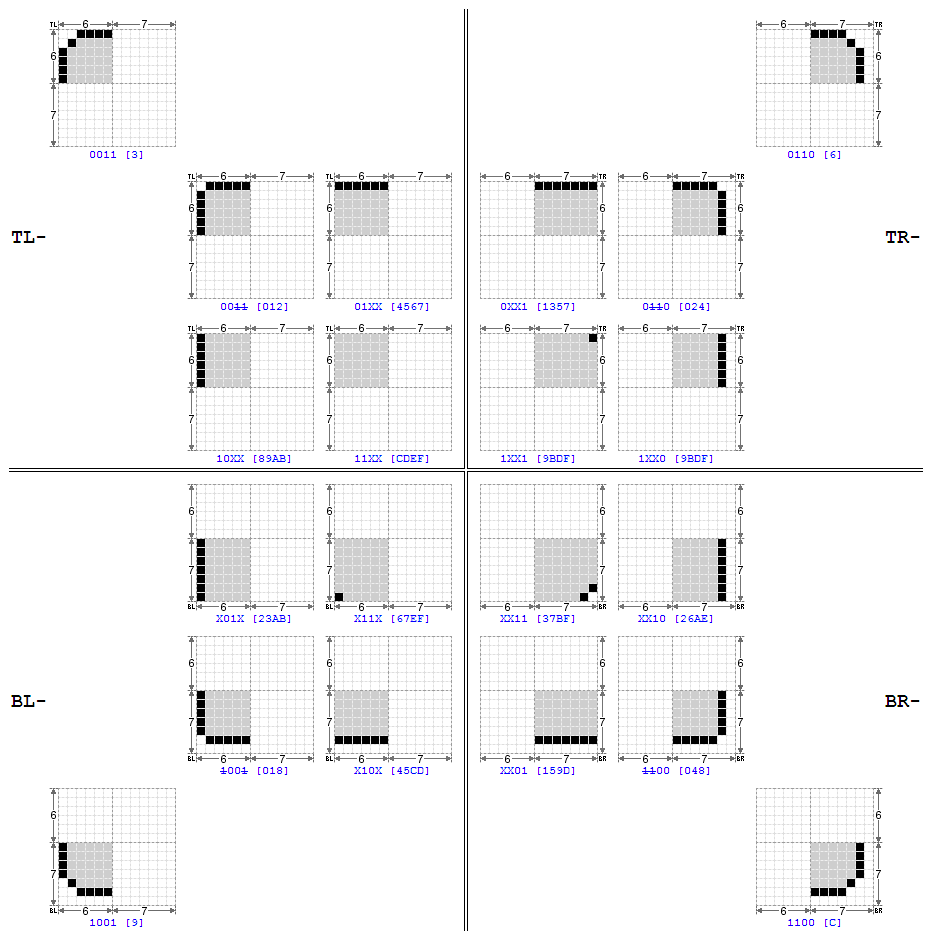
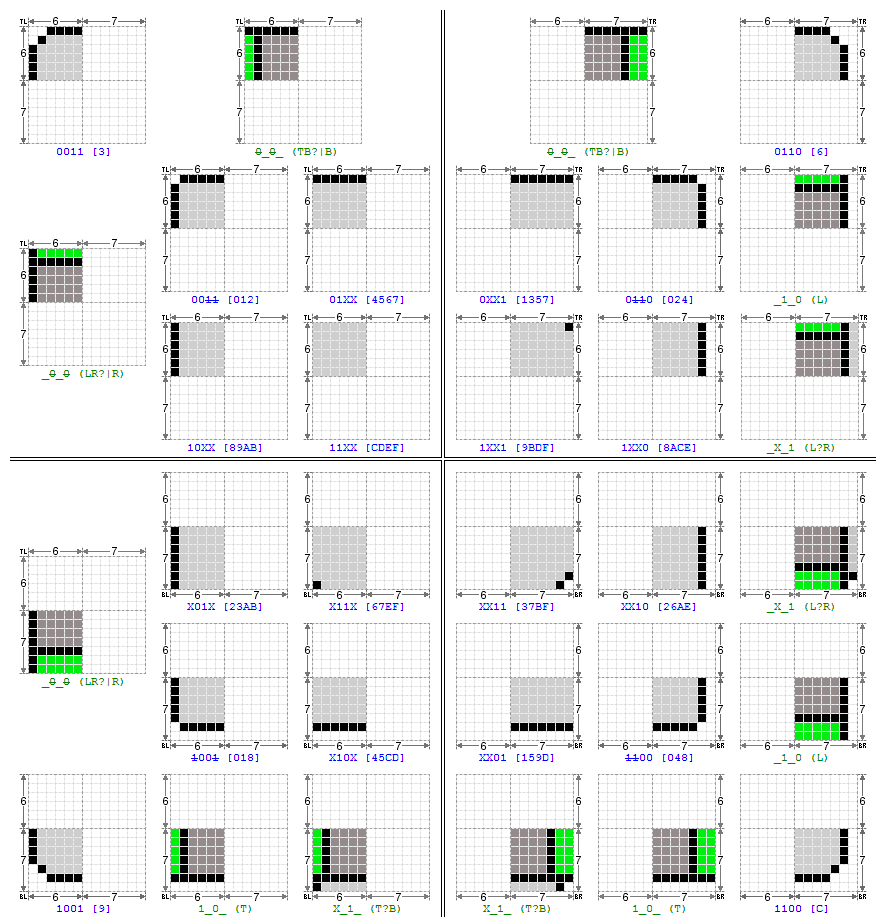
add junction priv, simplify layout in Primitives-table.htm

diff --git a/doc/Drawing-cells-corner-by-corner/Primitives-table.htm b/doc/Drawing-cells-corner-by-corner/Primitives-table.htm
@@ -15,20 +15,19 @@
         }
         td {
             margin:0px;
-            border:px solid black;
+            border:0px solid green;
             padding:0px;
-            text-align:center; vertical-align:middle; 
+            text-align:center; vertical-align:middle;
             font-family:monospace; font-size:11px; font-weight: bold;
             color:blue;
         }
         
         td * td {
-            margin:0px;
-            border:0px solid green;
+            border:0px solid black;
             padding:0px;
         }
 
-        .junction { color:green; visibility:hidden; }
+        .junction { color:green; visibility:xhidden; }
         
         .TL { text-align:right; vertical-align:bottom;  padding-bottom:1px; border-bottom:1px solid black; padding-right: 1px; border-right: 1px solid black; }
         .BL { text-align:right; vertical-align:top;     padding-right: 1px; border-right: 1px solid black; padding-top:   1px; border-top:   1px solid black; }
@@ -36,7 +35,21 @@
         .TR { text-align:left; vertical-align:bottom;   padding-left:  1px; border-left:  1px solid black; padding-bottom:1px; border-bottom:1px solid black; }
 
         .quadrant-label * { font-size: 20px; font-weight: bold; color:black; }
-        .quadrant-label *:after { content:attr(id)"-"; }
+
+        td * td img {
+            display:block;
+            border:0px solid black;
+            padding:5px;
+            padding-bottom:0px;
+        }
+        td.TL * td img { padding-right:8px; }
+        td.TR * td img { padding-left: 8px; }
+        td.BL * td img { padding-right:8px; padding-top:8px; }
+        td.BR * td img { padding-left: 8px; padding-top:8px; }
+
+        td * td[colspan="2"] img {
+            margin-left:74px;
+        }
     </style>
 
     <table>
@@ -45,36 +58,36 @@
             <tr>
                 <td class="quadrant-label" rowspan="3"><div id="TL"></div></td>
                 <td>
-                    <img align="top" src="gfx/TL-0011.png?raw=true" title="connected to the right and bottom but NOT to top and left">
-                    <br>0011 [3]
+                    <img S="[3]" src="gfx/TL-0011.png?raw=true" title="connected to the right and bottom but NOT to top and left">
+                    0011 [3]
                 </td>
                 <td class="junction" colspan="2">
-                    <img align="top" src="gfx/TL-T-or-B-or-TB.png?raw=true" title="junction: base connected to the top or bottom or both (left and right implicit)">
-                    <br>[TB?|B]
+                    <img J="TB?|B" src="gfx/TL-T-or-B-or-TB.png?raw=true" title="junction: base connected to the top or bottom or both (left and right implicit)">
+                    <strike>0</strike>_<strike>0</strike>_ (TB?|B)
                 </td>
             </tr>
             <tr>
                 <td class="junction" rowspan="2">
-                    <img align="top" src="gfx/TL-L-or-R-or-LR.png?raw=true" title="junction: base connected to the left or right or both (top and bottom implicit)">
-                    <br>[LR?|R]
+                    <img J="LR?|R" src="gfx/TL-L-or-R-or-LR.png?raw=true" title="junction: base connected to the left or right or both (top and bottom implicit)">
+                    _<strike>0</strike>_<strike>0</strike> (LR?|R)
                 </td>
                 <td>
-                    <img align="top" src="gfx/TL-0000-or-0001-or-0010.png?raw=true" title="NOT connected to the left and NOT to the top and NOT to *both*, right and bottom">
-                    <br>00<strike>11</strike> [012]
+                    <img S="[012]" src="gfx/TL-0000-or-0001-or-0010.png?raw=true" title="NOT connected to the left and NOT to the top and NOT to *both*, right and bottom">
+                    00<strike>11</strike> [012]
                 </td>
                 <td>
-                    <img align="top" src="gfx/TL-01XX.png?raw=true" title="connected to the left but NOT to the top">
-                    <br>01XX [4567]
+                    <img S="[4567]" src="gfx/TL-01XX.png?raw=true" title="connected to the left but NOT to the top">
+                    01XX [4567]
                 </td>
             </tr>
             <tr>
                 <td>
-                    <img align="top" src="gfx/TL-10XX.png?raw=true" title="connected to the top but NOT to the left">
-                    <br>10XX [89AB]
+                    <img S="[89AB]" src="gfx/TL-10XX.png?raw=true" title="connected to the top but NOT to the left">
+                    10XX [89AB]
                 </td>
                 <td>
-                    <img align="top" src="gfx/TL-11XX.png?raw=true" title="connected to the top and left">
-                    <br>11XX [CDEF]
+                    <img S="[CDEF]" src="gfx/TL-11XX.png?raw=true" title="connected to the top and left">
+                    11XX [CDEF]
                   </td>
             </tr>
         </table></td>
@@ -82,41 +95,41 @@
         <td class="TR"><table>
             <tr>
                 <td class="junction" colspan="2">
-                    <img align="top" src="gfx/TR-T-or-B-or-TB.png?raw=true" title="junction: base connected to the top or bottom or both (left and right implicit)">
-                    <br>[TB?|B]
+                    <img J="(TB?|B)" src="gfx/TR-T-or-B-or-TB.png?raw=true" title="junction: base connected to the top or bottom or both (left and right implicit)">
+                    <strike>0</strike>_<strike>0</strike>_ (TB?|B)
                 </td>
                 <td>
-                    <img align="top" src="gfx/TR-0110.png?raw=true" title="connected to the left and bottom but NOT to top and right">
-                    <br>0110 [6]
+                    <img S="[6]" src="gfx/TR-0110.png?raw=true" title="connected to the left and bottom but NOT to top and right">
+                    0110 [6]
                 </td>
                 <td class="quadrant-label" rowspan="3"><div id="TR"></div></td>
             </tr>
             <tr>
                 <td>
-                    <img align="top" src="gfx/TR-0XX1.png?raw=true" title="connected to the right but NOT to the top">
-                    <br>0XX1 [1357]
+                    <img S="[1357]" src="gfx/TR-0XX1.png?raw=true" title="connected to the right but NOT to the top">
+                    0XX1 [1357]
                 </td>
                 <td>
-                    <img align="top" src="gfx/TR-0000-or-0010-or-0100.png?raw=true" title="NOT connected to the top and NOT to the right and NOT to *both*, left and bottom">
-                    <br>0<strike>11</strike>0 [024]
+                    <img S="[024]" src="gfx/TR-0000-or-0010-or-0100.png?raw=true" title="NOT connected to the top and NOT to the right and NOT to *both*, left and bottom">
+                    0<strike>11</strike>0 [024]
                 </td>
                 <td class="junction">
-                    <img align="top" src="gfx/TR-L.png?raw=true" title="junction: base connected to the left but NOT to the right (top and bottom implicit)">
-                    <br>[L]
+                    <img J="(L)" src="gfx/TR-L.png?raw=true" title="junction: base connected to the left but NOT to the right (top and bottom implicit)">
+                    _1_0 (L)
                 </td>
             </tr>
             <tr>
                 <td>
-                    <img align="top" src="gfx/TR-1XX1.png?raw=true" title="connected to the top and right">
-                    <br>1XX1 [9BDF]
+                    <img S="[9BDF]" src="gfx/TR-1XX1.png?raw=true" title="connected to the top and right">
+                    1XX1 [9BDF]
                 </td>
                 <td>
-                    <img align="top" src="gfx/TR-1XX0.png?raw=true" title="connected to the top but NOT to the right">
-                    <br>1XX0 [9BDF]
+                    <img S="[8ACE]" src="gfx/TR-1XX0.png?raw=true" title="connected to the top but NOT to the right">
+                    1XX0 [8ACE]
                 </td>
                 <td class="junction">
-                    <img align="top" src="gfx/TR-R-or-LR.png?raw=true" title="junction: base connected to the right and maybe to the left (top and bottom implicit)">
-                    <br>[L?R]
+                    <img J="(L?R)" src="gfx/TR-R-or-LR.png?raw=true" title="junction: base connected to the right and maybe to the left (top and bottom implicit)">
+                    _X_1 (L?R)
                 </td>
             </tr>
         </table></td>
@@ -128,40 +141,40 @@
             <tr>
                 <td class="quadrant-label" rowspan="3"><div id="BL"></div></td>
                 <td class="junction" rowspan="2">
-                    <img align="top" src="gfx/BL-L-or-R-or-LR.png?raw=true" title="junction: base connected to the left or right or both (top and bottom implicit)">
-                    <br>[LR?|R]
+                    <img J="(LR?|R)" src="gfx/BL-L-or-R-or-LR.png?raw=true" title="junction: base connected to the left or right or both (top and bottom implicit)">
+                    _<strike>0</strike>_<strike>0</strike> (LR?|R)
                 </td>
                 <td>
-                    <img align="top" src="gfx/BL-X01X.png?raw=true" title="connected to the bottom but NOT to the left">
-                    <br>X01X [23AB]
+                    <img S="[23AB]" src="gfx/BL-X01X.png?raw=true" title="connected to the bottom but NOT to the left">
+                    X01X [23AB]
                 </td>
                 <td>
-                    <img align="top" src="gfx/BL-X11X.png?raw=true" title="connected to the left and bottom">
-                    <br>X11X [67EF]
+                    <img S="[67EF]" src="gfx/BL-X11X.png?raw=true" title="connected to the left and bottom">
+                    X11X [67EF]
                 </td>
             </tr>
             <tr>
                 <td>
-                    <img align="top" src="gfx/BL-0000-or-0001-or-1000.png?raw=true" title="NOT connected to the left and NOT to the bottom and NOT to *both*, right and top">
-                    <br><strike>1</strike>00<strike>1</strike> [018]
+                    <img S="[018]" src="gfx/BL-0000-or-0001-or-1000.png?raw=true" title="NOT connected to the left and NOT to the bottom and NOT to *both*, right and top">
+                    <strike>1</strike>00<strike>1</strike> [018]
                 </td>
                 <td>
-                    <img align="top" src="gfx/BL-X10X.png?raw=true" title="connected to the left but NOT to the bottom">
-                    <br>X10X [45CD]
+                    <img S="[45CD]" src="gfx/BL-X10X.png?raw=true" title="connected to the left but NOT to the bottom">
+                    X10X [45CD]
                 </td>
             </tr>
             <tr>
                 <td>
-                    <img align="top" src="gfx/BL-1001.png?raw=true" title="connected to the top and to the right but NOT to left and bottom">
-                    <br>1001 [9]
+                    <img S="[9]" src="gfx/BL-1001.png?raw=true" title="connected to the top and to the right but NOT to left and bottom">
+                    1001 [9]
                 </td>
                 <td class="junction">
-                    <img align="top" src="gfx/BL-T.png?raw=true" title="junction: base connected to the top but NOT to the bottom (left and right implicit)">
-                    <br>[T]
+                    <img J="(T)" src="gfx/BL-T.png?raw=true" title="junction: base connected to the top but NOT to the bottom (left and right implicit)">
+                    1_0_ (T)
                 </td>
                 <td class="junction">
-                    <img align="top" src="gfx/BL-B-or-TB.png?raw=true" title="junction: base connected to the bottom and maybe to the top (left and right implicit)">
-                    <br>[T?B]
+                    <img J="(T?B)" src="gfx/BL-B-or-TB.png?raw=true" title="junction: base connected to the bottom and maybe to the top (left and right implicit)">
+                    X_1_ (T?B)
                 </td>
             </tr>
         </table></td>
@@ -170,50 +183,51 @@
         <td class="BR"><table>
             <tr>
                 <td>
-                    <img align="top" src="gfx/BR-XX11.png?raw=true" title="connected to the bottom and right">
-                    <br>XX11 [37BF]
+                    <img S="[37BF]" src="gfx/BR-XX11.png?raw=true" title="connected to the bottom and right">
+                    XX11 [37BF]
                 </td>
                 <td>
-                    <img align="top" src="gfx/BR-XX10.png?raw=true" title="connected to the bottom but NOT to the right">
-                    <br>XX10 [26AE]
+                    <img S="[26AE]" src="gfx/BR-XX10.png?raw=true" title="connected to the bottom but NOT to the right">
+                    XX10 [26AE]
                 </td>
                 <td class="junction">
-                    <img align="top" src="gfx/BR-R-or-LR.png?raw=true" title="junction: base connected to the right and maybe to the left (top and bottom implicit)">
-                    <br>[L?R]
+                    <img J="(L?R)" src="gfx/BR-R-or-LR.png?raw=true" title="junction: base connected to the right and maybe to the left (top and bottom implicit)">
+                    _X_1 (L?R)
                 </td>
                 <td class="quadrant-label" rowspan="3"><div id="BR"></div></td>
             </tr>
             <tr>
                 <td>
-                    <img align="top" src="gfx/BR-XX01.png?raw=true" title="connected to the right but NOT to the bottom">
-                    <br>XX01 [159D]
+                    <img S="[159D]" src="gfx/BR-XX01.png?raw=true" title="connected to the right but NOT to the bottom">
+                    XX01 [159D]
                 </td>
                 <td>
-                    <img align="top" src="gfx/BR-0000-or-0100-or-1000.png?raw=true" title="NOT connected to the bottom and NOT to the right and NOT to *both*, top and left">
-                    <br><strike>11</strike>00 [048]
+                    <img S="[048]" src="gfx/BR-0000-or-0100-or-1000.png?raw=true" title="NOT connected to the bottom and NOT to the right and NOT to *both*, top and left">
+                    <strike>11</strike>00 [048]
                 </td>
                 <td class="junction">
-                    <img align="top" src="gfx/BR-L.png?raw=true" title="junction: base connected to the left but NOT to the right (top and bottom implicit)">
-                    <br>[L]
+                    <img J="(L)" src="gfx/BR-L.png?raw=true" title="junction: base connected to the left but NOT to the right (top and bottom implicit)">
+                    _1_0 (L)
                 </td>
             </tr>
             <tr>
                 <td class="junction">
-                    <img align="top" src="gfx/BR-B-or-TB.png?raw=true" title="junction: base connected to the bottom and maybe to the top (left and right implicit)">
-                    <br>[T?B]
+                    <img J="(T?B)" src="gfx/BR-B-or-TB.png?raw=true" title="junction: base connected to the bottom and maybe to the top (left and right implicit)">
+                    X_1_ (T?B)
                 </td>
                 <td class="junction">
-                    <img align="top" src="gfx/BR-T.png?raw=true" title="junction: base connected to the top but NOT to the bottom (left and right implicit)">
-                    <br>[T]
+                    <img J="(T)" src="gfx/BR-T.png?raw=true" title="junction: base connected to the top but NOT to the bottom (left and right implicit)">
+                    1_0_ (T)
                 </td>
                 <td>
-                    <img align="top" src="gfx/BR-1100.png?raw=true" title="connected to the top and left but NOT to bottom and right">
-                    <br>1100 [C]
+                    <img S="[C]" src="gfx/BR-1100.png?raw=true" title="connected to the top and left but NOT to bottom and right">
+                    1100 [C]
                 </td>
             </tr>
         </table></td>
 
     </tr>
     </table>
+
  </body>
 </html>
